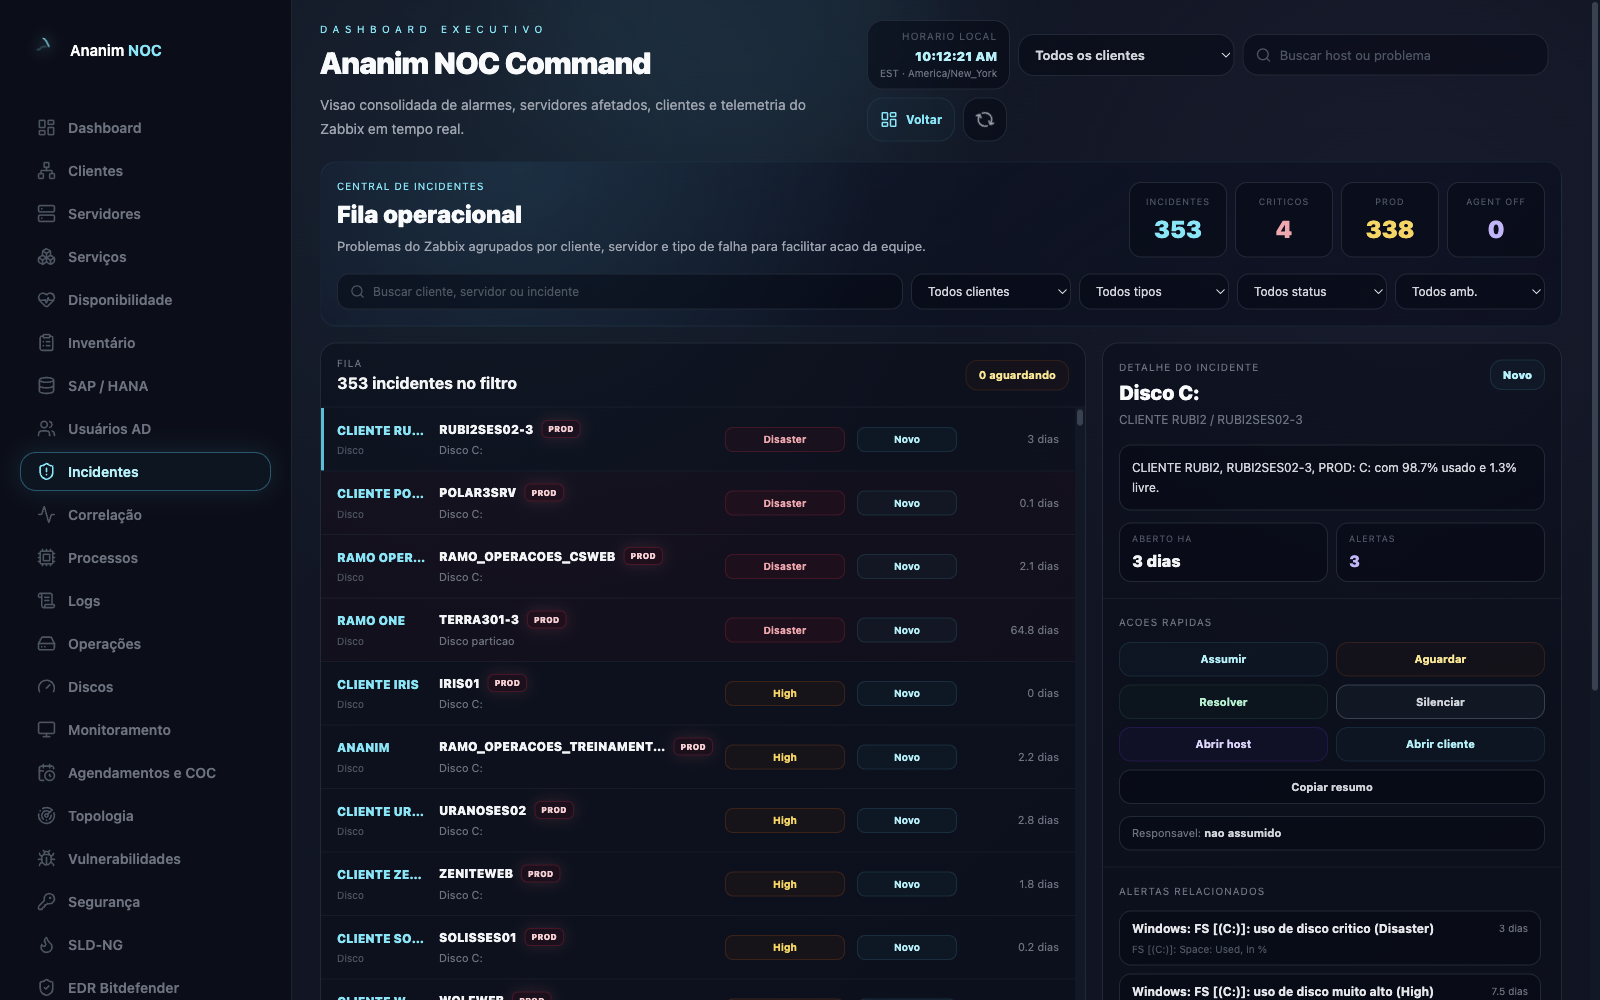
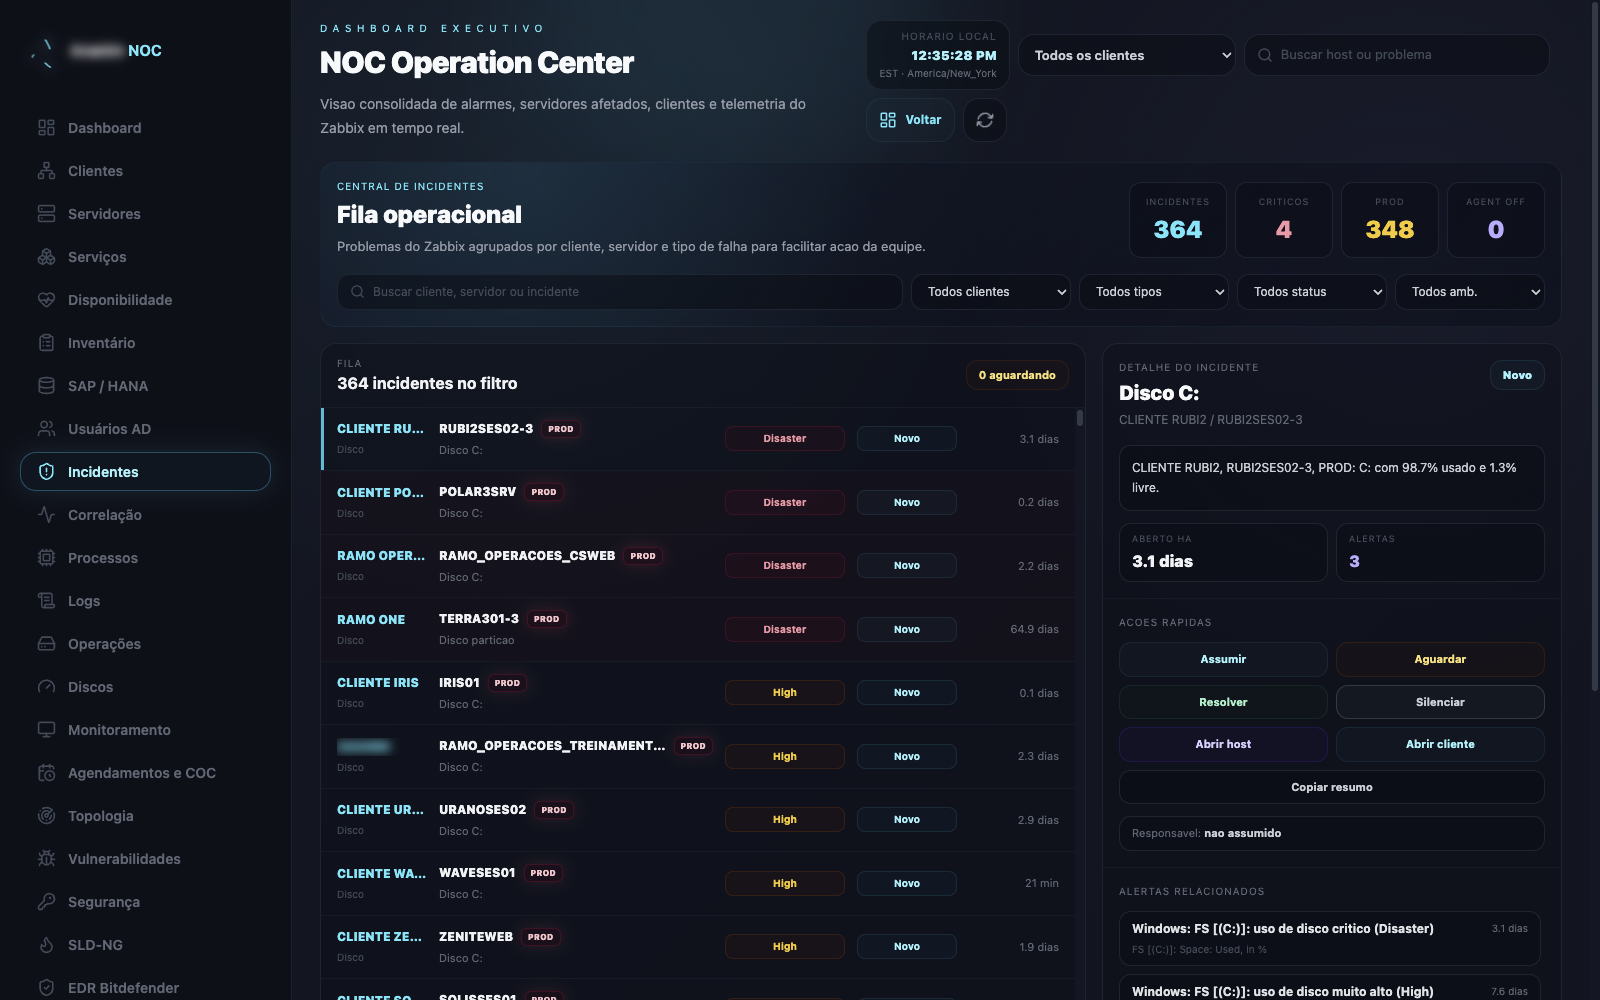
Rename projects (NOC Operation Center, Cloud Report, Shield) and blur account names/brand in screenshots

diff --git a/README.pt-BR.md b/README.pt-BR.md
@@ -1,4 +1,4 @@
-# Ananim NOC
+# NOC Operation Center
 
 **Observabilidade · Correlação · Usuários · Segurança · Operações**
 
@@ -6,13 +6,13 @@
 
 Portal de operação que conecta infraestrutura, aplicações e experiência dos usuários. Reúne disponibilidade, métricas, serviços, processos, logs, sessões, Active Directory, saúde SAP/HANA, EDR, auditoria da nuvem, VPN e backups em uma visão por cliente e por servidor — para a equipe responder *quem estava conectado, em qual host, o que aconteceu naquele período e quais sinais técnicos explicam o impacto*.
 
-![Ananim NOC — dashboard executivo (interface real, dados anonimizados)](overview.png)
+![NOC Operation Center — dashboard executivo (interface real, dados anonimizados)](overview.png)
 
-> **Portfólio de Gustavo Souza.** **Sobre as imagens:** são capturas reais da interface em produção (novembro/2026). Nomes de clientes, hostnames, IPs, usuários, e-mails e domínios foram substituídos automaticamente no momento da captura por nomes fictícios (ex.: `CLIENTE ALFA`, `app2.exemplo.com`, `usuario.1`, `10.20.x.x`); valores financeiros estão embaralhados. Layout, funcionalidades e fluxos são exatamente os que rodam em produção.
+> **Portfólio de Gustavo Souza.** **Sobre as imagens:** são capturas reais da interface em produção (novembro/2026). Nomes de clientes, hostnames, IPs, usuários, e-mails e domínios foram substituídos automaticamente no momento da captura por nomes fictícios (ex.: `CLIENTE ALFA`, `app2.exemplo.com`, `usuario.1`, `10.20.x.x`); nomes das contas cloud e a marca da operadora aparecem borrados; valores financeiros estão embaralhados. Layout, funcionalidades e fluxos são exatamente os que rodam em produção.
 
 ## O problema
 
-Uma lista de alarmes, sozinha, não explica o impacto no cliente. Manutenção programada, desligamento fora do horário comercial, falha de coleta e falha real precisam ser separados; senão a equipe corre atrás de ruído e perde o que importa. O Ananim NOC adiciona esse contexto: agendas esperadas, comportamento aprendido, correlação e escopo por cliente.
+Uma lista de alarmes, sozinha, não explica o impacto no cliente. Manutenção programada, desligamento fora do horário comercial, falha de coleta e falha real precisam ser separados; senão a equipe corre atrás de ruído e perde o que importa. O NOC Operation Center adiciona esse contexto: agendas esperadas, comportamento aprendido, correlação e escopo por cliente.
 
 ## Resumo
 
@@ -32,7 +32,7 @@ Uma lista de alarmes, sozinha, não explica o impacto no cliente. Manutenção p
 
 ## White-label e pronto para SaaS
 
-O Ananim NOC foi construído para ser **white-label**. Nome, logo, cores, papel timbrado dos relatórios, lista de clientes, contas cloud e integrações são configuração — não estão fixos no código. A mesma plataforma pode ser:
+O NOC Operation Center foi construído para ser **white-label**. Nome, logo, cores, papel timbrado dos relatórios, lista de clientes, contas cloud e integrações são configuração — não estão fixos no código. A mesma plataforma pode ser:
 
 - **implantada para qualquer empresa** — MSP, revenda de cloud, provedor de serviços gerenciados ou time interno de TI;
 - **operada como single-tenant** (uma empresa, na própria infraestrutura) ou **multi-tenant**, com cada cliente isolado por escopo validado no backend;
@@ -262,7 +262,7 @@ Alertas, logs e métricas ficam na mesma janela de investigação. Em vez de ana
 ```mermaid
 flowchart LR
   A[Agentes e coletores] --> B[Plataforma de monitoramento]
-  B --> C[Ananim NOC PHP API]
+  B --> C[NOC Operation Center PHP API]
   D[Inventário e agendador cloud] --> C
   E[Integrações de segurança: EDR, auditoria cloud, proteção RDP] --> C
   C --> F[Cache, ledgers e histórico]
@@ -299,8 +299,8 @@ O código-fonte é mantido em repositório privado. Este repositório é um port
 
 ## Projetos relacionados
 
-- [Ananim NOC](https://github.com/gsouzacloud/ananim-noc-portfolio) — operação, correlação, usuários e segurança
-- [AnanimCloudReport](https://github.com/gsouzacloud/ananim-cloud-report-portfolio) — FinOps e governança cloud
-- [Ananim Shield](https://github.com/gsouzacloud/ananim-application-shield-portfolio) — WAF e segurança de aplicações
+- [NOC Operation Center](https://github.com/gsouzacloud/noc-operation-center-portfolio) — operação, correlação, usuários e segurança
+- [Cloud Report](https://github.com/gsouzacloud/cloud-report-portfolio) — FinOps e governança cloud
+- [Shield](https://github.com/gsouzacloud/shield-portfolio) — WAF e segurança de aplicações
 
 [Gustavo Souza no GitHub](https://github.com/gsouzacloud) · Documentação atualizada em 18/11/2026.

diff --git a/README.md b/README.md
@@ -1,4 +1,4 @@
-# Ananim NOC
+# NOC Operation Center
 
 **Observability · Correlation · Users · Security · Operations**
 
@@ -6,13 +6,13 @@
 
 An operations portal that connects infrastructure, applications and user experience. It brings together availability, metrics, services, processes, logs, sessions, Active Directory, SAP/HANA health, EDR, cloud audit, VPN and backups in one view per client and per server — so the team can answer *who was connected, on which host, what happened in that period and which technical signals explain the impact*.
 
-![Ananim NOC — executive dashboard (real interface, anonymized data)](overview.png)
+![NOC Operation Center — executive dashboard (real interface, anonymized data)](overview.png)
 
-> **Portfolio of Gustavo Souza.** **About the screenshots:** they are real captures of the production interface (November 2026). Client names, hostnames, IP addresses, users, e-mails and domains were replaced automatically at capture time by fictitious ones (e.g. `CLIENTE ALFA`, `app2.exemplo.com`, `usuario.1`, `10.20.x.x`); financial values are scrambled. Layout, features and workflows are exactly what runs in production.
+> **Portfolio of Gustavo Souza.** **About the screenshots:** they are real captures of the production interface (November 2026). Client names, hostnames, IP addresses, users, e-mails and domains were replaced automatically at capture time by fictitious ones (e.g. `CLIENTE ALFA`, `app2.exemplo.com`, `usuario.1`, `10.20.x.x`); cloud account names and the operator's brand are blurred; financial values are scrambled. Layout, features and workflows are exactly what runs in production.
 
 ## The problem
 
-A list of alarms alone does not explain the impact on a client. Scheduled maintenance, business-hours shutdowns, collection gaps and real failures must be told apart, otherwise the team chases noise and misses what matters. Ananim NOC adds that context: expected schedules, learned behavior, correlation and per-client scope.
+A list of alarms alone does not explain the impact on a client. Scheduled maintenance, business-hours shutdowns, collection gaps and real failures must be told apart, otherwise the team chases noise and misses what matters. NOC Operation Center adds that context: expected schedules, learned behavior, correlation and per-client scope.
 
 ## At a glance
 
@@ -32,7 +32,7 @@ A list of alarms alone does not explain the impact on a client. Scheduled mainte
 
 ## White-label and SaaS-ready
 
-Ananim NOC was built to be **white-label**. Brand name, logo, colors, report letterhead, tenant list, cloud accounts and integrations are configuration — not hard-coded. The same platform can be:
+NOC Operation Center was built to be **white-label**. Brand name, logo, colors, report letterhead, tenant list, cloud accounts and integrations are configuration — not hard-coded. The same platform can be:
 
 - **deployed for any company** — an MSP, a cloud reseller, a managed-services provider or an internal IT team;
 - **run single-tenant** (one company, on its own infrastructure) or **multi-tenant**, with every tenant isolated by scope validated in the backend;
@@ -262,7 +262,7 @@ Alerts, logs and metrics are placed in the same investigation window. Instead of
 ```mermaid
 flowchart LR
   A[Agents and collectors] --> B[Monitoring platform]
-  B --> C[Ananim NOC PHP API]
+  B --> C[NOC Operation Center PHP API]
   D[Cloud inventory and scheduler] --> C
   E[Security integrations: EDR, cloud audit, RDP protection] --> C
   C --> F[Cache, ledgers and history]
@@ -299,8 +299,8 @@ The source code is kept in a private repository. This repository is a portfolio:
 
 ## Related projects
 
-- [Ananim NOC](https://github.com/gsouzacloud/ananim-noc-portfolio) — operations, correlation, users & security
-- [AnanimCloudReport](https://github.com/gsouzacloud/ananim-cloud-report-portfolio) — cloud FinOps & governance
-- [Ananim Shield](https://github.com/gsouzacloud/ananim-application-shield-portfolio) — WAF & application security
+- [NOC Operation Center](https://github.com/gsouzacloud/noc-operation-center-portfolio) — operations, correlation, users & security
+- [Cloud Report](https://github.com/gsouzacloud/cloud-report-portfolio) — cloud FinOps & governance
+- [Shield](https://github.com/gsouzacloud/shield-portfolio) — WAF & application security
 
 [Gustavo Souza on GitHub](https://github.com/gsouzacloud) · Documentation updated November 18, 2026.

diff --git a/VISUALS.md b/VISUALS.md
@@ -1,12 +1,12 @@
-# Screenshots — Ananim NOC
+# Screenshots — NOC Operation Center
 
 [English](#english) · [Português](#português)
 
 ## English
 
-**About the screenshots:** they are real captures of the production interface (November 2026). Client names, hostnames, IP addresses, users, e-mails and domains were replaced automatically at capture time by fictitious ones (e.g. `CLIENTE ALFA`, `app2.exemplo.com`, `usuario.1`, `10.20.x.x`); financial values are scrambled. Layout, features and workflows are exactly what runs in production.
+**About the screenshots:** they are real captures of the production interface (November 2026). Client names, hostnames, IP addresses, users, e-mails and domains were replaced automatically at capture time by fictitious ones (e.g. `CLIENTE ALFA`, `app2.exemplo.com`, `usuario.1`, `10.20.x.x`); cloud account names and the operator's brand are blurred; financial values are scrambled. Layout, features and workflows are exactly what runs in production.
 
-How anonymization works: a script injected into the browser rewrites every visible text node, input, tooltip, SVG label and canvas chart label before the screenshot is taken, using a fixed dictionary of real → fictitious names plus pattern rules for IPs, e-mails, domains, user names and currency values. Each image was then reviewed manually and checked by a leak scanner before publishing. Because values are scrambled, totals on financial screens are not meant to add up.
+How anonymization works: a script injected into the browser rewrites every visible text node, input, tooltip, SVG label and canvas chart label before the screenshot is taken, using a fixed dictionary of real → fictitious names plus pattern rules for IPs, e-mails, domains, user names and currency values; cloud account names and the operator's brand are blurred in place. Each image was then reviewed manually and checked by a leak scanner before publishing. Because values are scrambled, totals on financial screens are not meant to add up.
 
 `overview.png` is the main screen of the product, captured the same way.
 
@@ -40,9 +40,9 @@ How anonymization works: a script injected into the browser rewrites every visib
 
 ## Português
 
-**Sobre as imagens:** são capturas reais da interface em produção (novembro/2026). Nomes de clientes, hostnames, IPs, usuários, e-mails e domínios foram substituídos automaticamente no momento da captura por nomes fictícios (ex.: `CLIENTE ALFA`, `app2.exemplo.com`, `usuario.1`, `10.20.x.x`); valores financeiros estão embaralhados. Layout, funcionalidades e fluxos são exatamente os que rodam em produção.
+**Sobre as imagens:** são capturas reais da interface em produção (novembro/2026). Nomes de clientes, hostnames, IPs, usuários, e-mails e domínios foram substituídos automaticamente no momento da captura por nomes fictícios (ex.: `CLIENTE ALFA`, `app2.exemplo.com`, `usuario.1`, `10.20.x.x`); nomes das contas cloud e a marca da operadora aparecem borrados; valores financeiros estão embaralhados. Layout, funcionalidades e fluxos são exatamente os que rodam em produção.
 
-Como a anonimização funciona: um script injetado no navegador reescreve todo texto visível, campos, tooltips, rótulos SVG e rótulos de gráficos em canvas antes da captura, usando um dicionário fixo de nomes reais → fictícios e regras para IPs, e-mails, domínios, usuários e valores monetários. Cada imagem foi revisada manualmente e passou por um verificador de vazamento antes da publicação. Como os valores são embaralhados, os totais das telas financeiras não precisam fechar.
+Como a anonimização funciona: um script injetado no navegador reescreve todo texto visível, campos, tooltips, rótulos SVG e rótulos de gráficos em canvas antes da captura, usando um dicionário fixo de nomes reais → fictícios e regras para IPs, e-mails, domínios, usuários e valores monetários; nomes das contas cloud e a marca da operadora são borrados no lugar. Cada imagem foi revisada manualmente e passou por um verificador de vazamento antes da publicação. Como os valores são embaralhados, os totais das telas financeiras não precisam fechar.
 
 `overview.png` é a tela principal do produto, capturada da mesma forma.
 

diff --git a/ARCHITECTURE.md b/ARCHITECTURE.md
@@ -1,4 +1,4 @@
-# Architecture — Ananim NOC
+# Architecture — NOC Operation Center
 
 [English](#english) · [Português](#português)
 
@@ -9,7 +9,7 @@ Logical diagram — no addresses, credentials or client topology.
 ```mermaid
 flowchart LR
   A[Agents and collectors] --> B[Monitoring platform]
-  B --> C[Ananim NOC PHP API]
+  B --> C[NOC Operation Center PHP API]
   D[Cloud inventory and scheduler] --> C
   E[Security integrations: EDR, cloud audit, RDP protection] --> C
   C --> F[Cache, ledgers and history]
@@ -48,7 +48,7 @@ Diagrama lógico — sem endereços, credenciais ou topologia de clientes.
 ```mermaid
 flowchart LR
   A[Agentes e coletores] --> B[Plataforma de monitoramento]
-  B --> C[Ananim NOC PHP API]
+  B --> C[NOC Operation Center PHP API]
   D[Inventário e agendador cloud] --> C
   E[Integrações de segurança: EDR, auditoria cloud, proteção RDP] --> C
   C --> F[Cache, ledgers e histórico]

diff --git a/ROADMAP.md b/ROADMAP.md
@@ -1,4 +1,4 @@
-# Roadmap — Ananim NOC
+# Roadmap — NOC Operation Center
 
 [English](#english) · [Português](#português)
 
